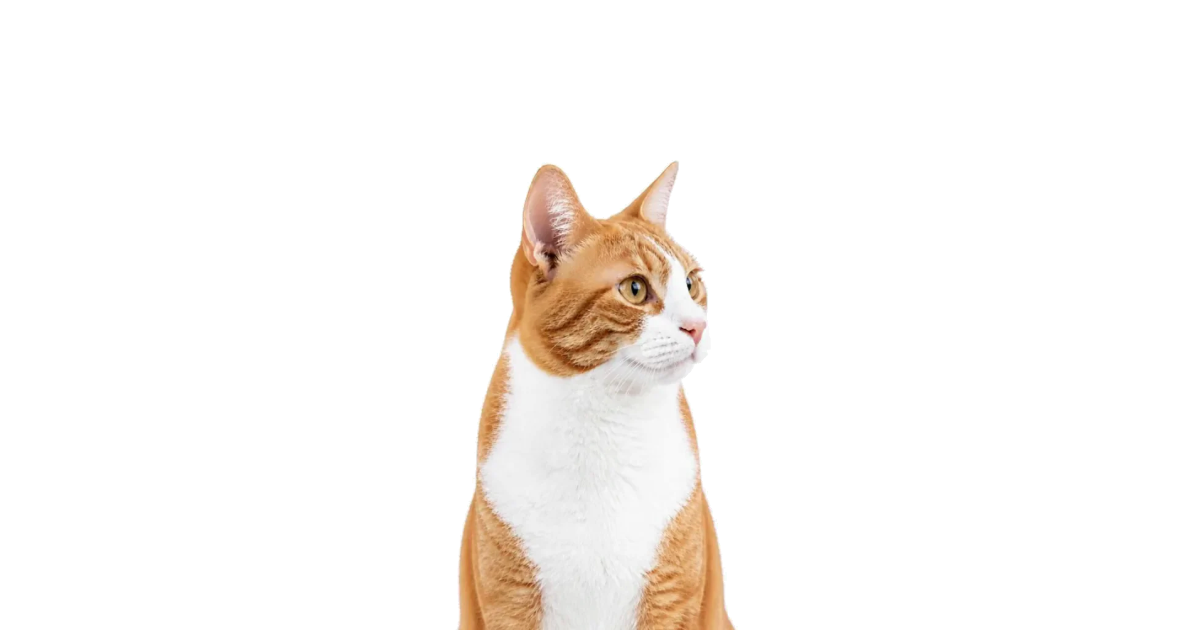
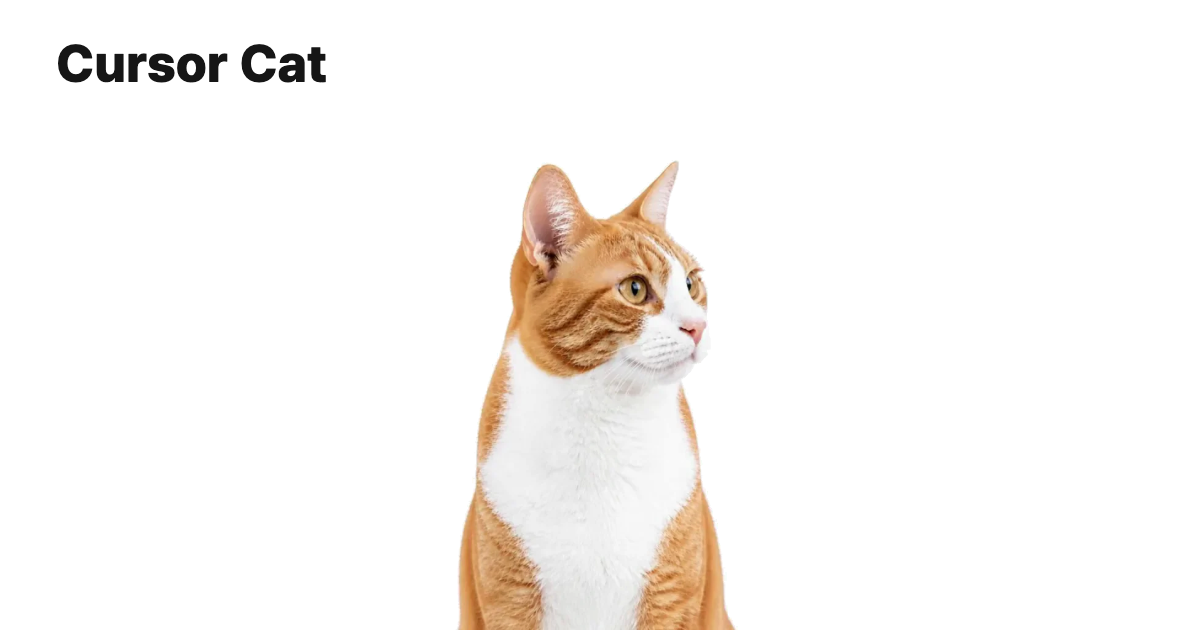
fix(cursor-cat): add title to social sharing card

Changed region(s): [[0.0308, 0.0603, 0.2775, 0.1508]]

diff --git a/scripts/cursor-cat-social-image.html b/scripts/cursor-cat-social-image.html
@@ -1,0 +1,59 @@
+<!doctype html>
+<html lang="ko">
+<head>
+  <meta charset="UTF-8">
+  <meta name="viewport" content="width=device-width, initial-scale=1">
+  <title>Cursor Cat 공유 이미지 합성</title>
+  <style>
+    * { box-sizing: border-box; }
+    body { margin: 0; padding: 24px; background: #161616; color: #f4f2ec; font-family: system-ui, sans-serif; }
+    main { max-width: 1200px; margin: auto; }
+    h1 { font-size: 22px; margin: 0 0 12px; }
+    p { color: #c5c2bc; line-height: 1.6; }
+    canvas { display: block; width: 100%; height: auto; border: 1px solid #353535; }
+    button { border: 0; border-radius: 6px; padding: 12px 20px; background: #f4f2ec; color: #111; font: inherit; cursor: pointer; }
+    button:disabled { opacity: .5; cursor: wait; }
+    code { overflow-wrap: anywhere; }
+  </style>
+</head>
+<body>
+  <main>
+    <h1>Cursor Cat 공유 이미지 합성</h1>
+    <p>실제 PNG 캡처의 왼쪽 위에 작품명만 합성합니다. 생성형 이미지나 JPEG 중간 파일은 사용하지 않습니다.</p>
+    <canvas id="preview" width="1200" height="630" role="img" aria-label="왼쪽 위에 Cursor Cat 작품명이 있는 공유 이미지"></canvas>
+    <p id="status" role="status">원본 이미지와 Pretendard를 불러오는 중…</p>
+    <button id="download" disabled>PNG 다운로드</button>
+    <p>입력: <code>pages/cursor-cat/assets/og-artwork.png</code><br>
+      저장 위치: <code>pages/cursor-cat/assets/og-image.png</code></p>
+  </main>
+  <script type="module">
+    import { drawSocialImage, socialImage } from './cursor-cat-social-image.mjs';
+    const canvas = document.querySelector('#preview');
+    const status = document.querySelector('#status');
+    const download = document.querySelector('#download');
+    try {
+      const font = new FontFace('Pretendard', 'url(/pages/line-pull/assets/Pretendard-ExtraBold.subset.woff2)', { weight: '800' });
+      const source = new Image();
+      source.src = '/pages/cursor-cat/assets/og-artwork.png';
+      const [loadedFont] = await Promise.all([font.load(), source.decode()]);
+      document.fonts.add(loadedFont);
+      drawSocialImage(canvas.getContext('2d'), source);
+      status.textContent = `${socialImage.width} × ${socialImage.height} PNG 준비 완료 · ${socialImage.title}`;
+      download.disabled = false;
+      download.addEventListener('click', () => {
+        canvas.toBlob(blob => {
+          if (!blob) { status.textContent = 'PNG 저장에 실패했습니다.'; return; }
+          const url = URL.createObjectURL(blob);
+          const link = document.createElement('a');
+          link.href = url;
+          link.download = 'cursor-cat-og-image.png';
+          link.click();
+          setTimeout(() => URL.revokeObjectURL(url), 1000);
+        }, 'image/png');
+      });
+    } catch (error) {
+      status.textContent = `이미지 합성 실패: ${error.message}`;
+    }
+  </script>
+</body>
+</html>

diff --git a/pages/cursor-cat/index.html b/pages/cursor-cat/index.html
@@ -15,12 +15,12 @@
   <meta property="og:image:type" content="image/png">
   <meta property="og:image:width" content="1200">
   <meta property="og:image:height" content="630">
-  <meta property="og:image:alt" content="Cursor Cat — 흰 배경 가운데 오른쪽을 바라보는 주황색과 흰색 고양이">
+  <meta property="og:image:alt" content="왼쪽 위에 Cursor Cat 제목이 있고, 흰 배경 가운데 오른쪽을 바라보는 주황색과 흰색 고양이">
   <meta name="twitter:card" content="summary_large_image">
   <meta name="twitter:title" content="Cursor Cat">
   <meta name="twitter:description" content="커서를 따라 시선을 움직이는 고양이 인터랙티브 아트.">
   <meta name="twitter:image" content="https://brand-artwork.vercel.app/pages/cursor-cat/assets/og-image.png">
-  <meta name="twitter:image:alt" content="Cursor Cat — 흰 배경 가운데 오른쪽을 바라보는 주황색과 흰색 고양이">
+  <meta name="twitter:image:alt" content="왼쪽 위에 Cursor Cat 제목이 있고, 흰 배경 가운데 오른쪽을 바라보는 주황색과 흰색 고양이">
   <link rel="stylesheet" href="/pages/cursor-cat/style.css">
 </head>
 <body>

diff --git a/pages/cursor-cat/social-preview.test.ts b/pages/cursor-cat/social-preview.test.ts
@@ -29,6 +29,7 @@ test('share descriptions and accessible image text remain consistent', () => {
   expect(meta('twitter:description')).toBe(meta('description'));
   expect(meta('og:image:alt')).toContain('고양이');
   expect(meta('og:image:alt')).toContain('Cursor Cat');
+  expect(meta('og:image:alt')).toContain('왼쪽 위');
   expect(meta('og:image:alt')).not.toMatch(/바이브코딩|4일차/);
   expect(meta('twitter:image:alt')).toBe(meta('og:image:alt'));
 });

diff --git a/docs/artworks/cursor-cat/social-share-image.md b/docs/artworks/cursor-cat/social-share-image.md
@@ -1,0 +1,14 @@
+# Cursor Cat 공유 이미지
+
+기존 Chrome에서 실제 작품을 1200×630 PNG로 캡처한 원본은 `pages/cursor-cat/assets/og-artwork.png`에 보존한다. 최종 `og-image.png`는 원본 위 왼쪽 상단에 `Cursor Cat` 제목을 합성한다. 원본의 고양이와 흰 배경은 그대로 유지한다.
+
+제목은 기존 Line Pull 카드와 같은 Pretendard ExtraBold 52px을 사용한다. 왼쪽 여백은 56px, 글자 기준선은 위에서 82px이며 색상은 `#161616`이다. 폰트 파일은 `pages/line-pull/assets/Pretendard-ExtraBold.subset.woff2`를 공유한다.
+
+## 재생성
+
+1. 개발 서버를 시작하고 기존 Chrome에서 `/scripts/cursor-cat-social-image.html`을 연다.
+2. PNG 준비 완료 표시와 제목 배치를 확인한다.
+3. **PNG 다운로드**를 눌러 받은 `cursor-cat-og-image.png`를 `pages/cursor-cat/assets/og-image.png`에 반영한다.
+4. `pnpm test pages/cursor-cat`, `pnpm typecheck`, `pnpm build`로 검증한다.
+
+합성 값은 `scripts/cursor-cat-social-image.mjs`에서 관리한다. 원본 크기가 다르면 합성을 거부하며, 폰트와 이미지 디코딩 후 Canvas에서 PNG를 직접 출력한다. 작품을 다시 캡처할 때는 [공통 제작 가이드](../../guides/social-share-images.md)를 따른다.
